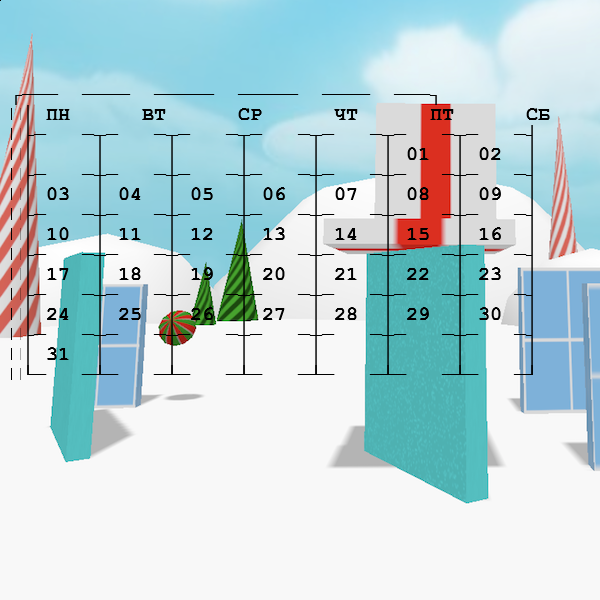
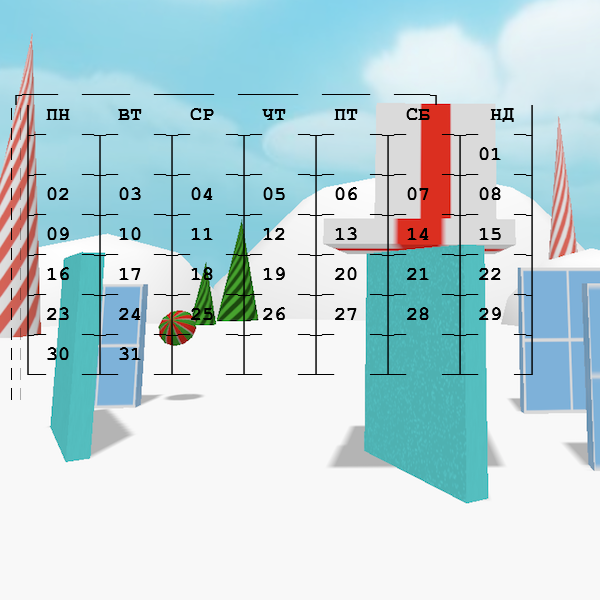
added constants.js and refactoring

diff --git a/calendar.js b/calendar.js
@@ -1,85 +1,88 @@
-let mons = [1, 4, 4, 0, 2, 5, 0, 3, 6, 1, 4, 6];
+const CONSTANTS = require('./constants.js');
     
-function getCodeMons(value) {
-    let code = mons[Number(value) - 1];
-    return code;
+function getMonthCode(month) {
+    return CONSTANTS.CODE_OF_MONTHS[Number(month)];
 };
     
-function getCodeYear(value) {
-    let index = (3 - (value.slice(0, 2) % 4)) * 2;
-    let twoNum = (Number(value.slice(2)));
-    let code = ((index + twoNum + Math.floor(twoNum/4)) % 7);
-    return code;
+function getYearCode(year) {
+    year = correctionYear(year);
+    let centuryIndex = (3 - (year.slice(0, 2) % 4)) * 2;
+    let lastTwoDigitsOfYear = (Number(year.slice(2)));
+    return (centuryIndex + lastTwoDigitsOfYear + Math.floor(lastTwoDigitsOfYear/4)) 
+        % CONSTANTS.NUMBER_DAYS_OF_WEEK;
 };
     
-function checkLeapYear(value) {
-    if ((value % 4 === 0 && value % 100 !== 0) || (value % 4 === 0 && value % 400 === 0)) {
-        return true;
-    } 
-    return false;
+function correctionYear(year) {
+    return ((year.length < CONSTANTS.MIN_YEAR_LENGHT) ? '00' : '') + year;
+}
+
+function checkLeapYear(year) {
+    year = correctionYear(year);
+    return (year % CONSTANTS.INDEX_CHECK_LEAP_YEAR === 0 
+        && (year % CONSTANTS.INDEX_CHECK_LEAP_YEAR_2 !== 0) 
+        || (year % CONSTANTS.INDEX_CHECK_LEAP_YEAR_3 === 0))
 };
-    
-function correctionLeapYear(year, numberMons) {
-    let correction = 0;
-    if (checkLeapYear(year) && Number(numberMons) < 3) {
-        correction = -1;
+
+function correctionLeapYear(year, month) {
+    if (checkLeapYear(year) && Number(month) < 3) {
+        return -1;
     };
-return correction;
+    return 0;
 };
     
-function getDay(value, correction, codeMons, codeYear) {
-    let day = (correction + Number(value) + codeMons + codeYear) % 7;
-    day = ((day + 5) % 7) + 1;
-    return day;
+function getDayOfWeek(numberDay, correction, codeMons, codeYear) {
+    let dayOfWeek = (correction + Number(numberDay) + codeMons + codeYear) % 7;
+    return ((dayOfWeek + 5) % CONSTANTS.NUMBER_DAYS_OF_WEEK) + 1;
 };
     
-function getDayOfMonth(month, year) {
+function getNumberOfDaysPerMonth(month, year) {
     let dayOfMonth;
+    year = correctionYear(year);
     month = Number(month);
     if (month < 8){
         if (month !== 2) {
-            dayOfMonth = 30 + (month % 2);             
-        } else dayOfMonth = checkLeapYear(year) ? 29 : 28;
-    } else dayOfMonth = 31 - (month % 2);
+            dayOfMonth = CONSTANTS.NUM_DAYS_OF_SMALL_MONTHS + (month % 2);             
+        } else dayOfMonth = checkLeapYear(year) ? CONSTANTS.NUM_DAYS_OF_BIG_FEBRUARY : CONSTANTS.NUM_DAYS_OF_SMALL_FEBRUARY;
+    } else dayOfMonth = CONSTANTS.NUM_DAYS_OF_BIG_MONTHS - (month % 2);
     return dayOfMonth;
 };
 
-function makeTable(a, n) {
-    let a51 = g11;
-    for (let i = 1; i < a; i++){
-      a51 = a51 + '  ' + b;
+function makeTable(firstDay, numberOfDays) {
+    let table = top;
+    let counterNum = 1;
+    for (let i = 1; i < firstDay; i++){
+        table += '  ' + betweenColumns;
     }
-    for (let i = a; i <= 42; i++) {
-      let s = i - a + 1;
-      let se = n + a - 1;
-      a51 = a51 + ((s < 10) ? '0' : '') + (( i > se) ? '  ': s) + (((i % 7 === 0) && (i/7 !== 6)) ? g2 : b) ;
+    for (let i = firstDay; i <= CONSTANTS.NUM_CALENDAR_CELLS; i++) {
+      let lastDay = numberOfDays + firstDay;
+      table = table + ((counterNum < CONSTANTS.NUMBER_OF_DIGIT) ? '0' : '') + (( i >= lastDay) ? '  ': counterNum) 
+      + (((i % CONSTANTS.NUMBER_DAYS_OF_WEEK === 0) && (i/CONSTANTS.NUMBER_DAYS_OF_WEEK !== 6)) ? betweenLines : betweenColumns);
+      counterNum++;
     }
-    a51 = a51 + '.' + g3;
-    return a51;
+    table += '.' + bottom;
+    return table;
 }
   
-function makeCurrentTable(mon, yearCur) {
-    let year = ((yearCur.length < 3) ? '00' : '') + yearCur;
-    let correction = correctionLeapYear(year, mon);
-    let codeMons = getCodeMons(mon);
-    let codeYear = getCodeYear(year);
-    let i = getDayOfMonth(mon, year);
-    let u = getDay('01', correction, codeMons, codeYear);
-
-    return makeTable(u, i);
+function makeCurrentTable(month, year) {
+    let correction = correctionLeapYear(year, month);
+    let codeMonth = getMonthCode(month);
+    let codeYear = getYearCode(year);
+    let numberOfDays = getNumberOfDaysPerMonth(month, year);
+    let firstDay = getDayOfWeek(CONSTANTS.STRING_FIRST_NUMBER, correction, codeMonth, codeYear);
+    return makeTable(firstDay, numberOfDays);
 }
 
 module.exports = { makeCurrentTable };
 
-let g11 = `┌───  ────  ─────  ─────  ────  ───┐.
+let top = `┌───  ────  ─────  ─────  ────  ───┐.
 │ ПН    ВТ    СР    ЧТ    ПТ    СБ     НД │.
 ├─   ─┬─   ─┬─   ─┬─   ─┬─   ─┬─   ─┬─   ─┤.
 │ `
-let g2 = `  │.
+let betweenLines = `  │.
 ├─   ─┼─   ─┼─   ─┼─   ─┼─   ─┼─   ─┼─   ─┤.
 │ `;
 
-let g3 = `
+let bottom = `
 └─   ─┴─   ─┴─   ─┴─   ─┴─   ─┴─   ─┴─   ─┘.
 `;
-let b = '  │ ';
+let betweenColumns = '  │ ';

diff --git a/print.js b/print.js
@@ -7,31 +7,16 @@ let filepath = "calendar.png"
 
 const font = PImage.registerFont('CourierNewPS-BoldMT.ttf','MyFont');
 
-const fun = function(ddd, callback) {
+const printCalendar = function(stringCalendar, callback) {
 
-  const [a, b, c, d, q, w, e, r, t, y, u, i, o, p, l] = ddd.split('.')
+  const lines = stringCalendar.split('.');
   font.load(() => {
     client.get(url, (image_stream)=>{
         PImage.decodePNGFromStream(image_stream).then(img => {
             const ctx = img.getContext('2d');
             ctx.fillStyle = '#000000';
             ctx.font = "20pt MyFont";
-            ctx.fillText(a, 10, 100);
-            ctx.fillText(b, 10, 120);
-            ctx.fillText(c, 10, 140);
-            ctx.fillText(d, 10, 160);
-            ctx.fillText(q, 10, 180);
-            ctx.fillText(w, 10, 200);
-            ctx.fillText(e, 10, 220);
-            ctx.fillText(r, 10, 240);
-            ctx.fillText(t, 10, 260);
-            ctx.fillText(y, 10, 280);
-            ctx.fillText(u, 10, 300);
-            ctx.fillText(i, 10, 320);
-            ctx.fillText(o, 10, 340);
-            ctx.fillText(p, 10, 360);
-            ctx.fillText(l, 10, 380);
-            ctx.fillText(l, 10, 380);
+            lines.forEach((line, index) => ctx.fillText(line, 10, 100 + index*20));
             PImage.encodePNGToStream(img, fs.createWriteStream(filepath)).then(()=>{
                 console.log("done writing to ", filepath)
                 callback();
@@ -41,4 +26,4 @@ const fun = function(ddd, callback) {
   })
 };
 
-module.exports = { fun }
+module.exports = { printCalendar }

diff --git a/constants.js b/constants.js
@@ -1,0 +1,29 @@
+const CODE_OF_MONTHS = [null, 1, 4, 4, 0, 2, 5, 0, 3, 6, 1, 4, 6];
+const NUMBER_DAYS_OF_WEEK = 7;
+const MIN_YEAR_LENGHT = 3;
+const NUMBER_OF_DIGIT = 10;
+const NUM_DAYS_OF_BIG_MONTHS = 31;
+const NUM_DAYS_OF_SMALL_MONTHS = 30;
+const NUM_DAYS_OF_BIG_FEBRUARY = 29;
+const NUM_DAYS_OF_SMALL_FEBRUARY = 28;
+const NUM_CALENDAR_CELLS = 42;
+const INDEX_CHECK_LEAP_YEAR = 4;
+const INDEX_CHECK_LEAP_YEAR_2 = 100;
+const INDEX_CHECK_LEAP_YEAR_3 = 400;
+const STRING_FIRST_NUMBER = "01";
+
+module.exports = {
+    CODE_OF_MONTHS,
+    NUMBER_DAYS_OF_WEEK,
+    MIN_YEAR_LENGHT,
+    NUMBER_OF_DIGIT,
+    NUM_DAYS_OF_BIG_MONTHS,
+    NUM_DAYS_OF_SMALL_MONTHS,
+    NUM_DAYS_OF_BIG_FEBRUARY,
+    NUM_DAYS_OF_SMALL_FEBRUARY,
+    NUM_CALENDAR_CELLS,
+    INDEX_CHECK_LEAP_YEAR,
+    INDEX_CHECK_LEAP_YEAR_2,
+    INDEX_CHECK_LEAP_YEAR_3,
+    STRING_FIRST_NUMBER
+}

diff --git a/bot.js b/bot.js
@@ -23,7 +23,7 @@ bot.onText(/\/pic (.+)/, (msg, [source, match]) => {
 
   let [mons, year] = match.split('.');
   let pic = calendar.makeCurrentTable(mons, year);
-  print.fun(pic, send.bind(null, msg.chat.id));
+  print.printCalendar(pic, send.bind(null, msg.chat.id));
 })
 
 const send = function(msgchatid) {
